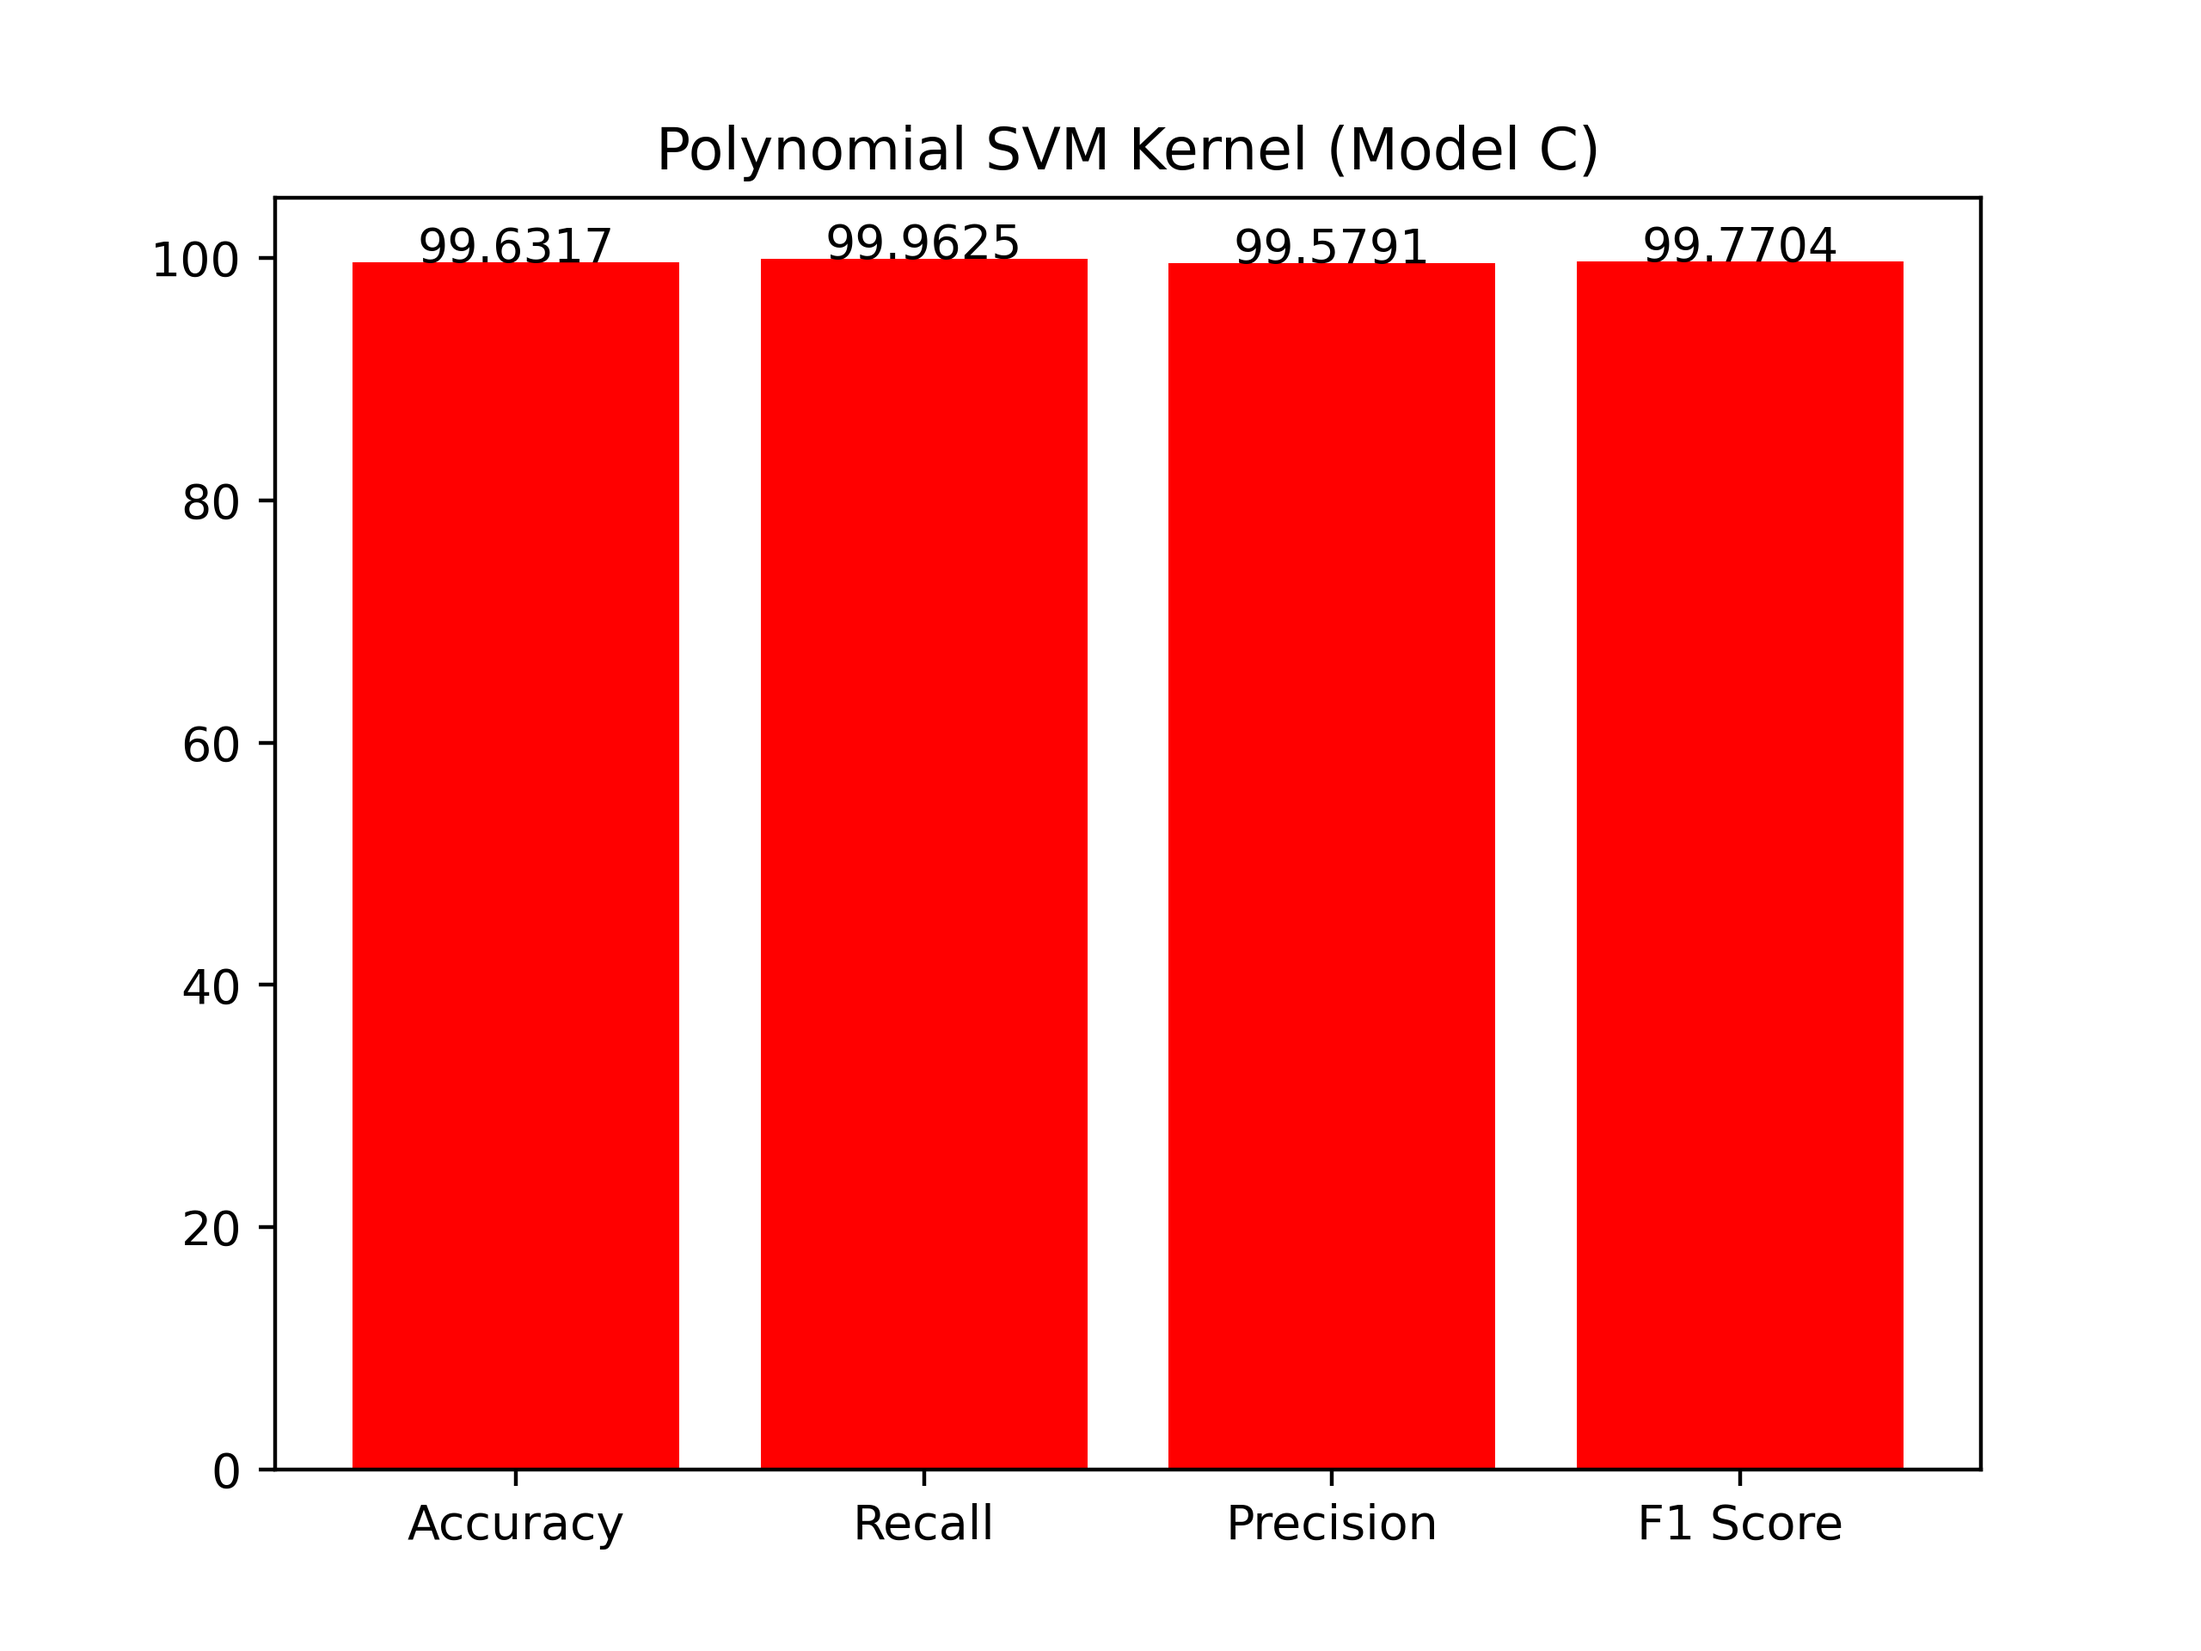
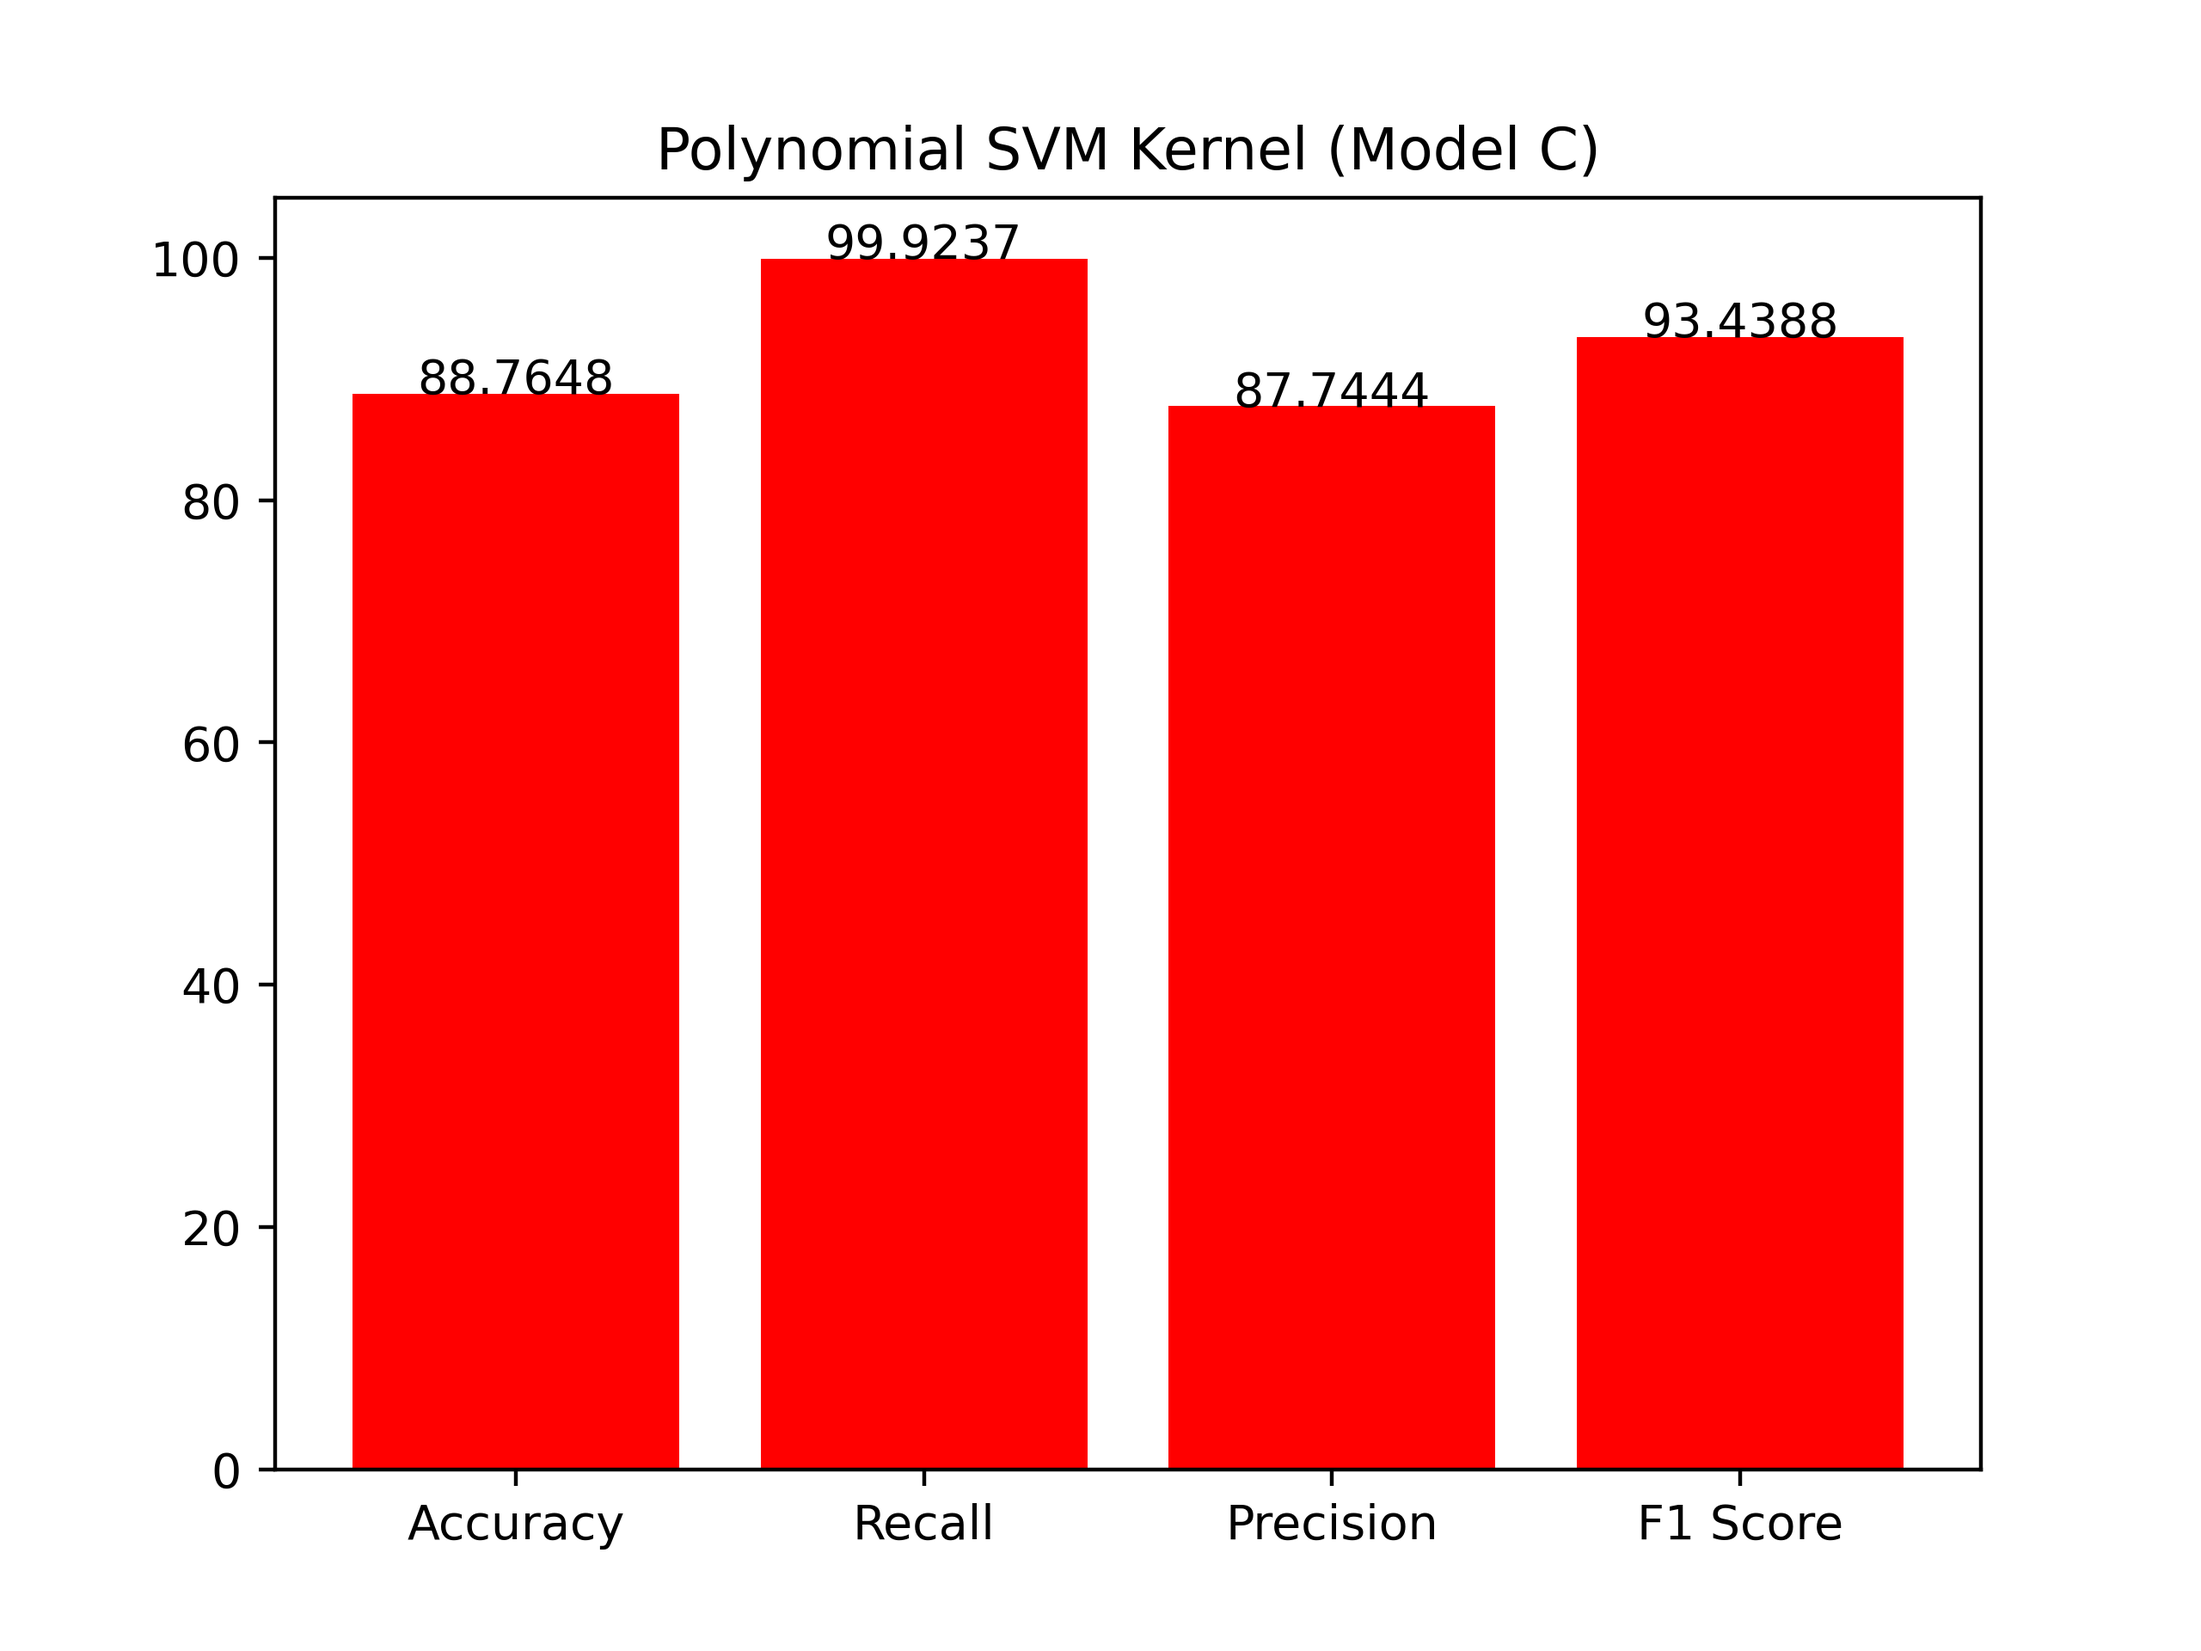
fix pk graph

diff --git a/Metrics/Graphs/classifierGraphs.py b/Metrics/Graphs/classifierGraphs.py
@@ -53,7 +53,7 @@ values_pk = list(poly_kernel_data.values())
 x_pk = list(poly_kernel_data.keys())
 y_pk = [round (value * 100, 4) for value in values_pk]
 
-create_simple_bar_graph(x=x_lk, y=y_lk, value_labels=True, colour="Red", title="Polynomial SVM Kernel (Model C)", save_path="Metrics/Graphs/pngs/SVCPolyKernelMetrics.png", dpi=400)
+create_simple_bar_graph(x=x_pk, y=y_pk, value_labels=True, colour="Red", title="Polynomial SVM Kernel (Model C)", save_path="Metrics/Graphs/pngs/SVCPolyKernelMetrics.png", dpi=400)
 
 # RBF  Kernel SVM
 
